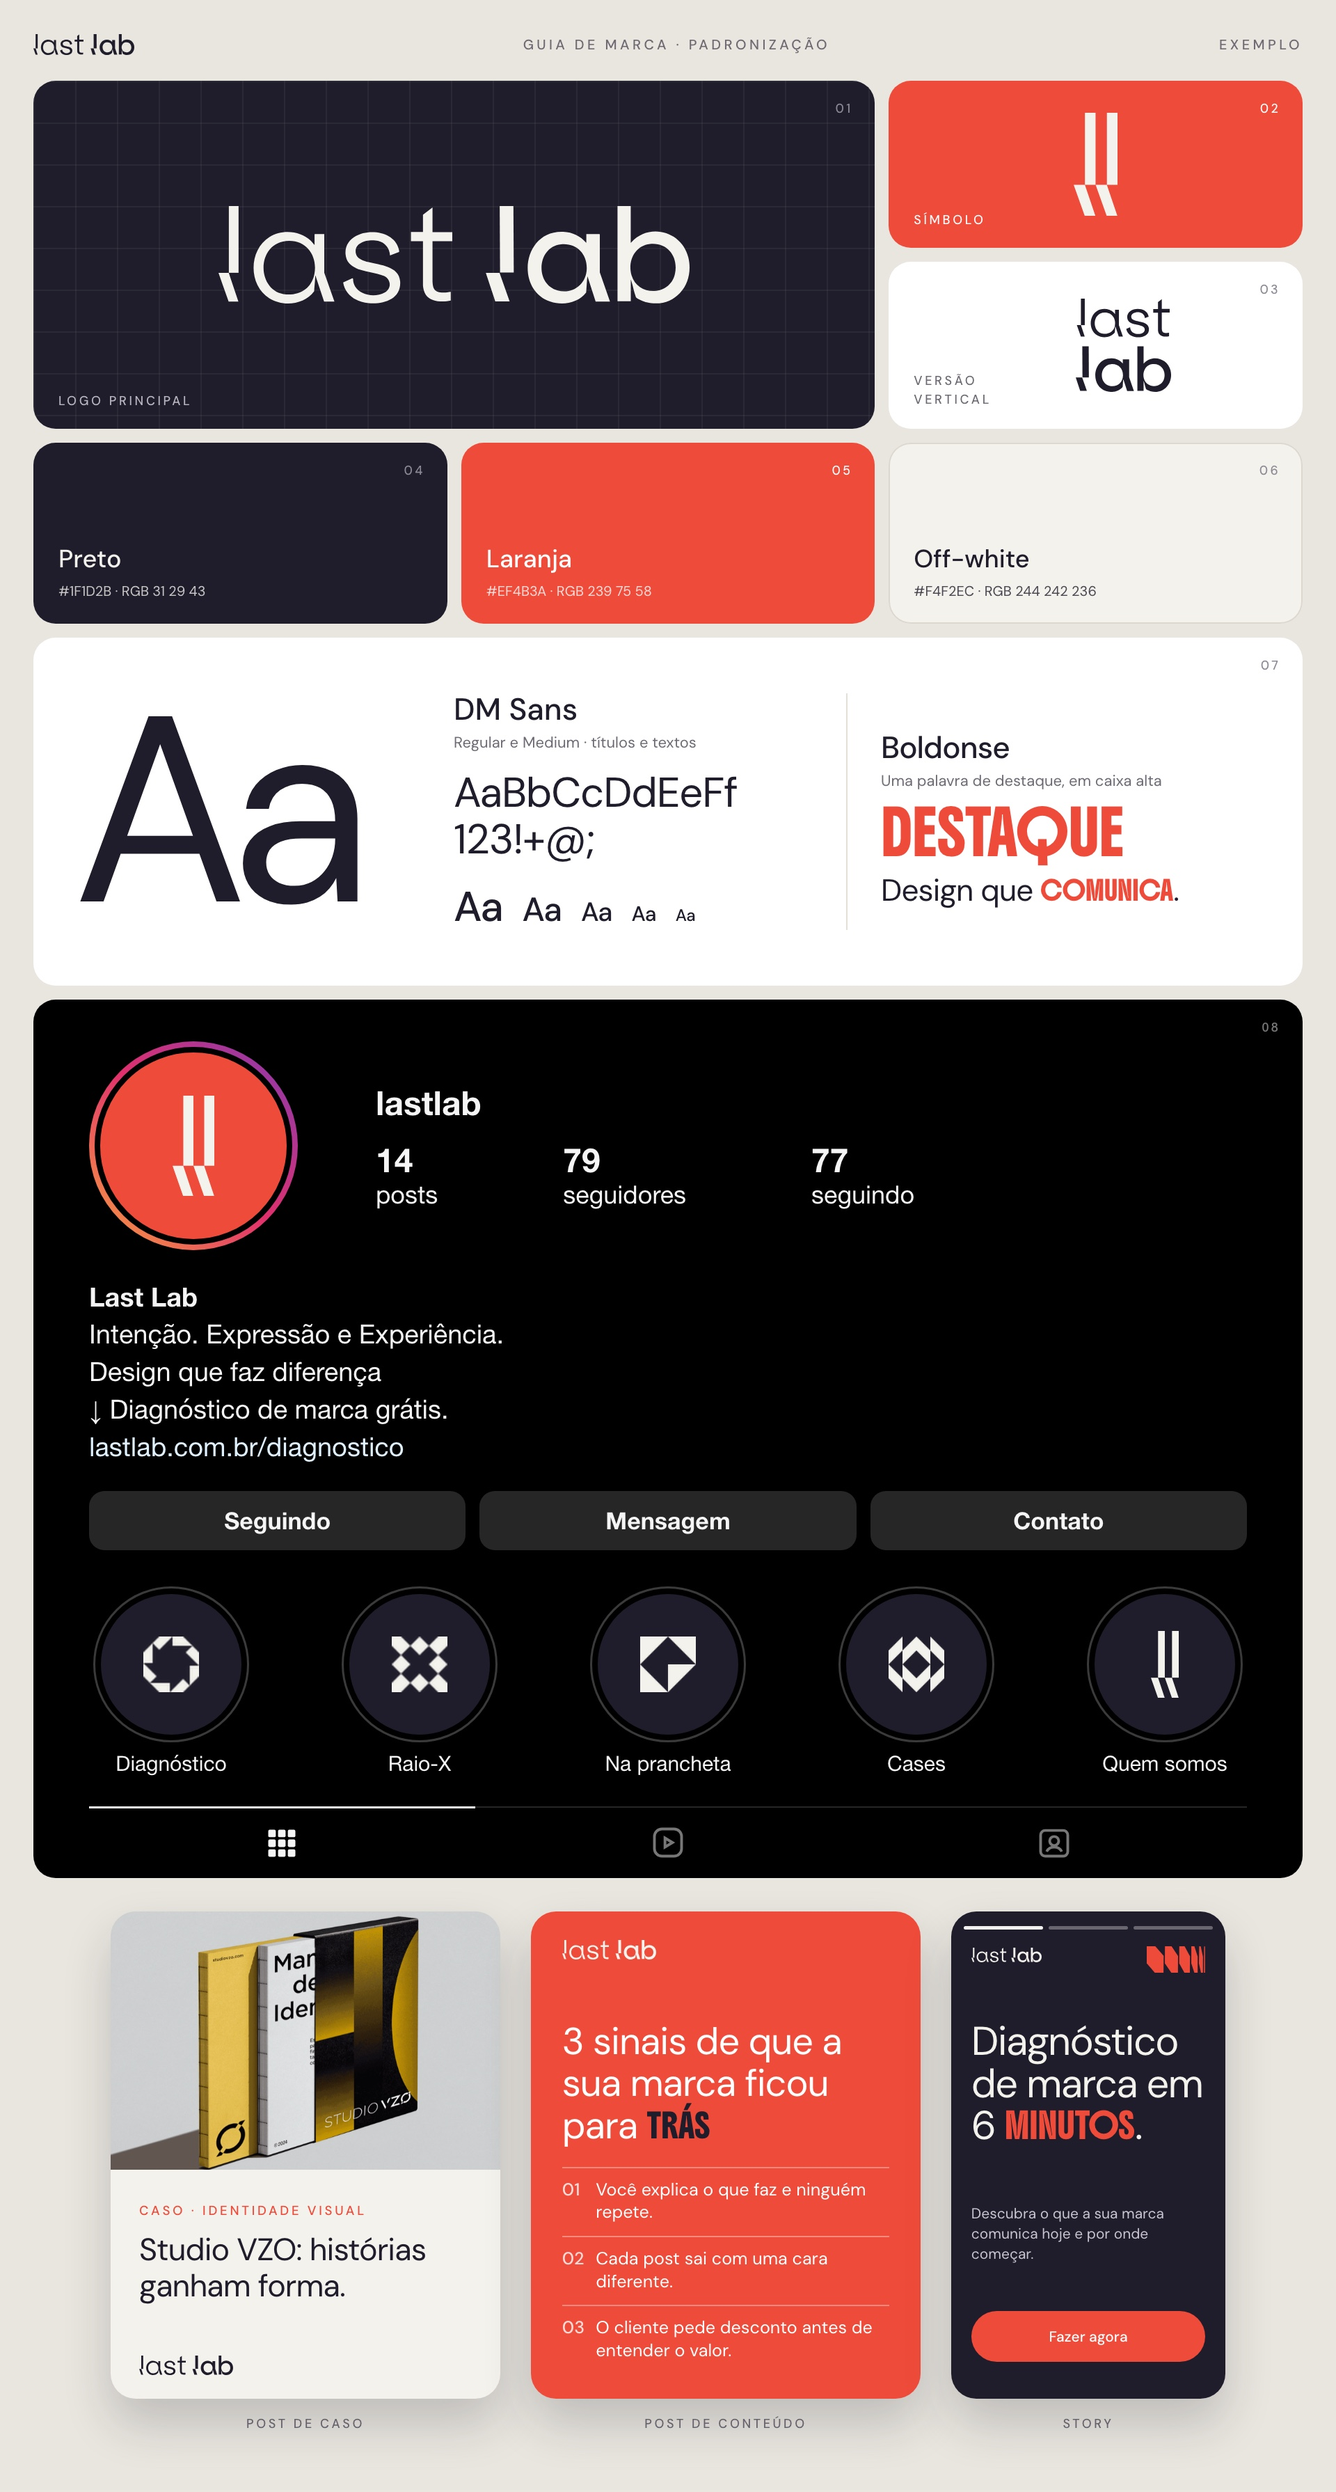
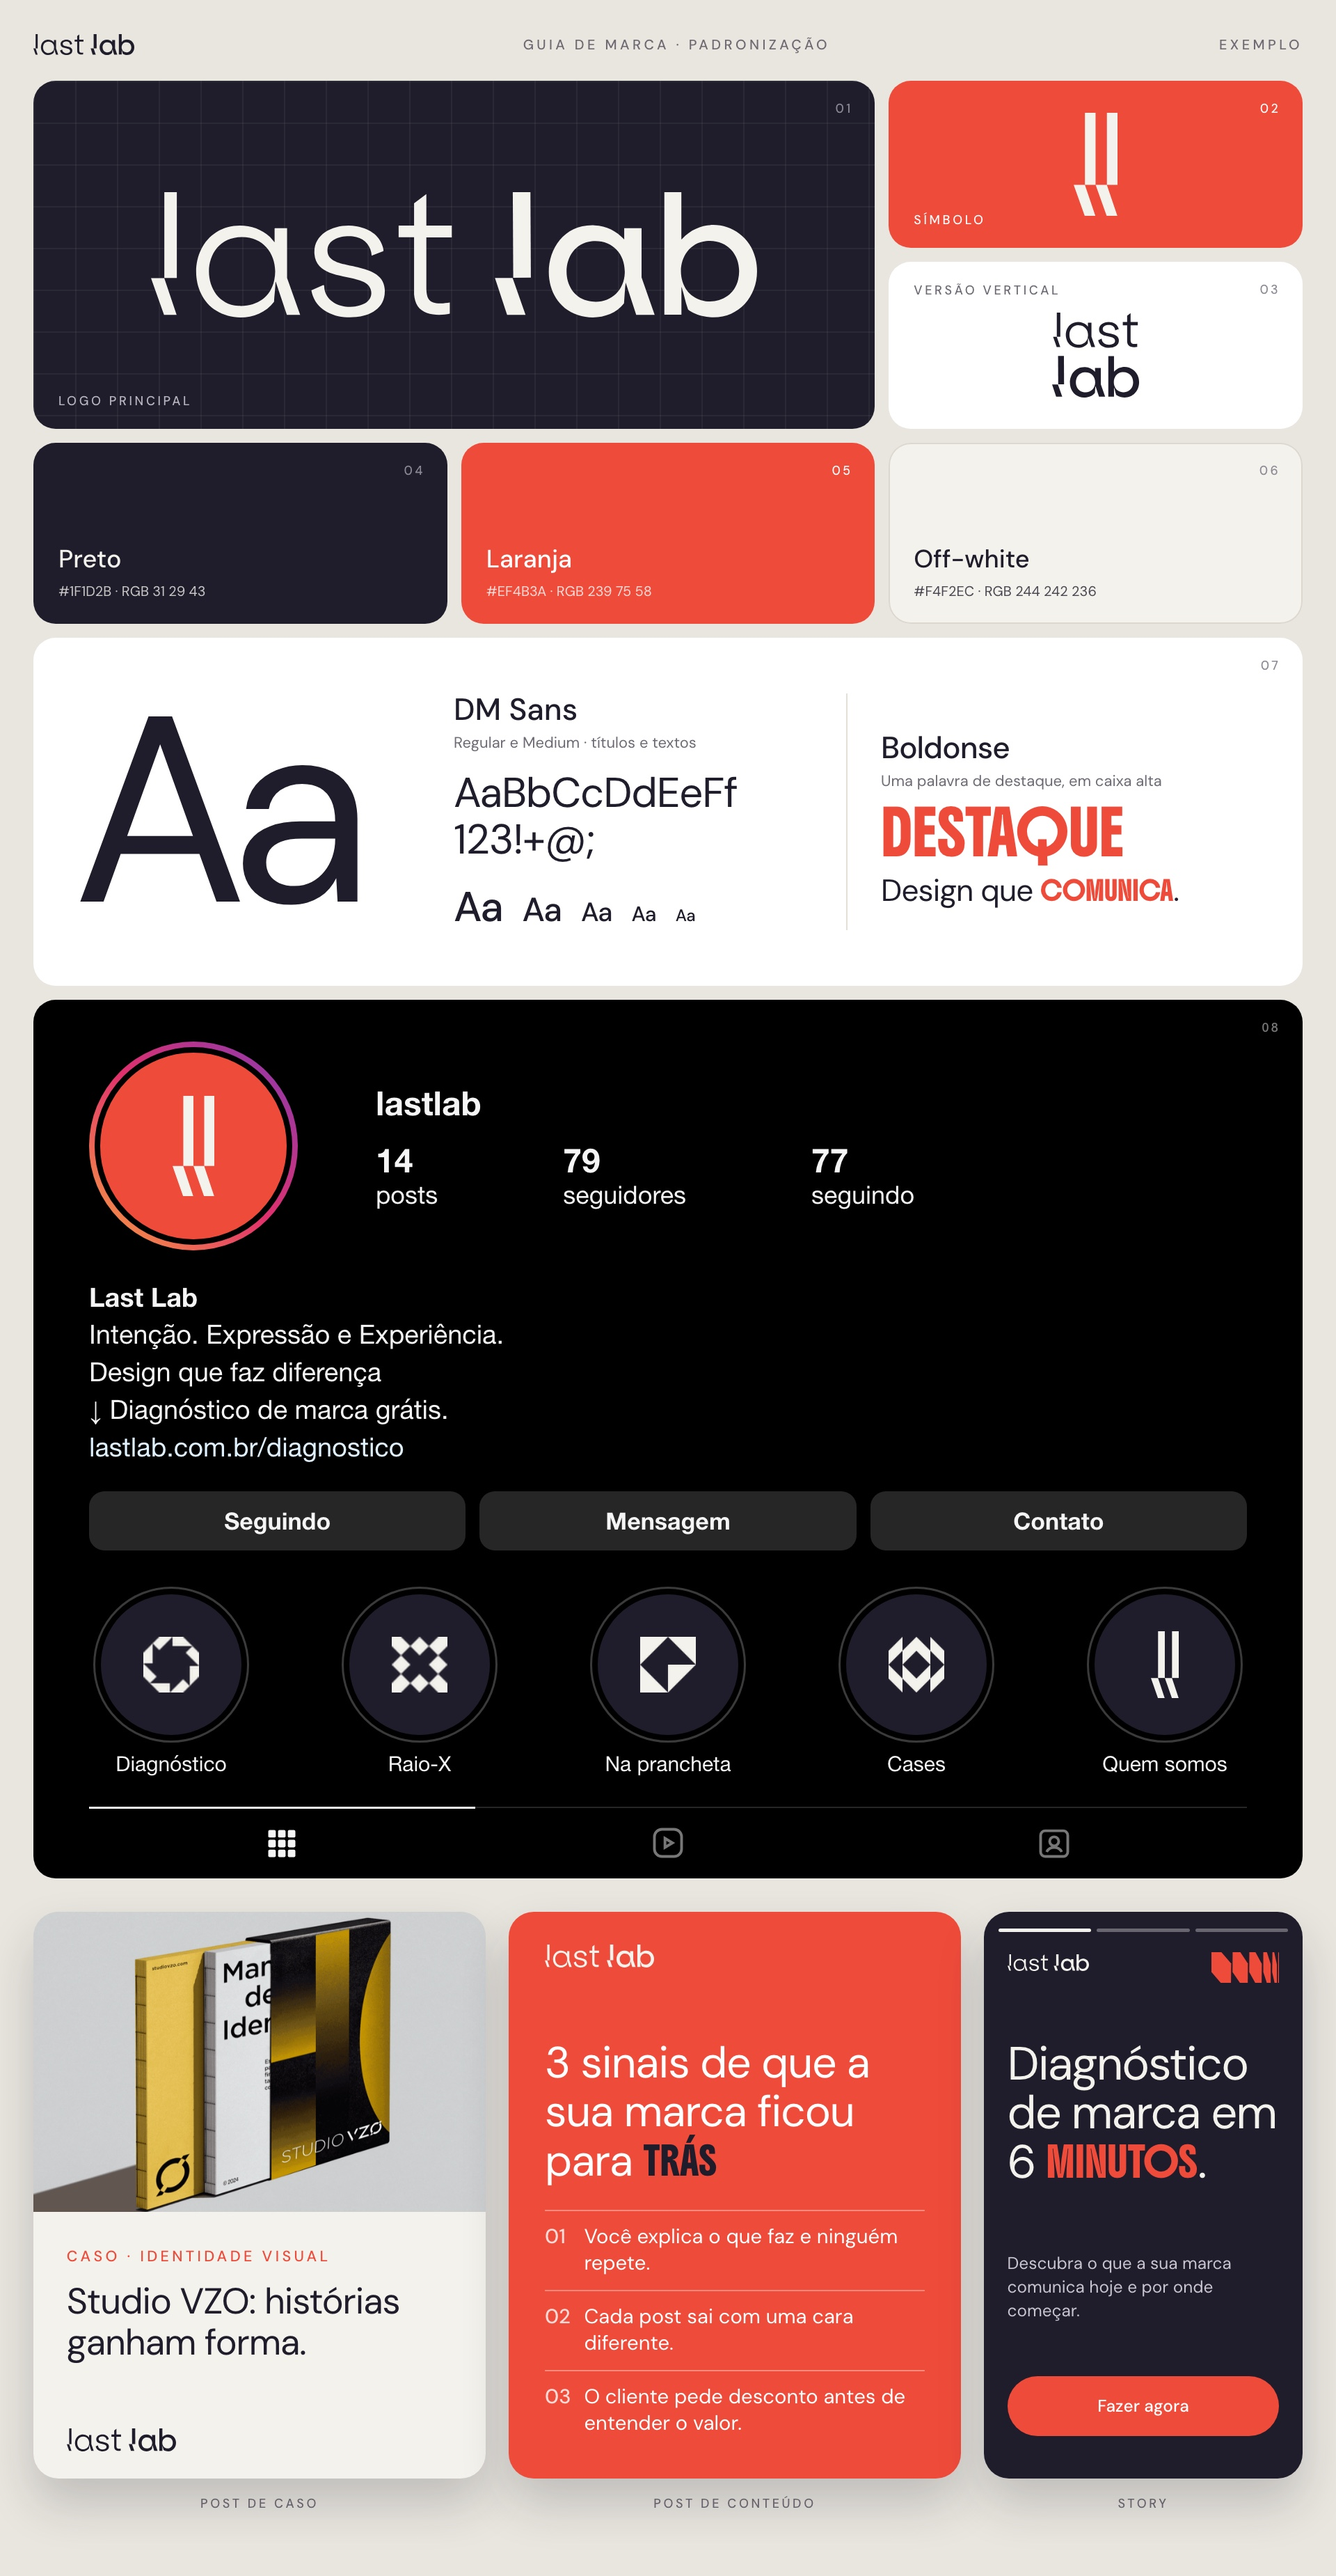
Guia de marca em duas versões: vertical em destaque no O que você recebe, horizontal ocupando o Como fica

diff --git a/src/admin/AdminApresentacao.jsx b/src/admin/AdminApresentacao.jsx
@@ -1239,9 +1239,9 @@ function Entrega({ d, escala }) {
   const onePage = s.vitrineEntrega;
   const comMateriais = !onePage && d.materiais.length > 0;
   return (
-    <Slide escala={escala} d={d} classe={comMateriais ? "vt-slide-entrega" : ""}>
+    <Slide escala={escala} d={d} classe={comMateriais ? "vt-slide-entrega" : onePage ? "sem-rodape" : ""}>
       <Titulo t={tx("entrega", "titulo")} sub={s.promessa} />
-      <div className={`vt-entrega ${comMateriais ? "so-lista" : "mockup"}`}>
+      <div className={`vt-entrega ${comMateriais || onePage ? "so-lista" : "mockup"}`}>
         <div className="esq">
           <ul className={`vt-itens ${s.entregas.length > 4 ? "muitos" : ""}`}>
             {s.entregas.map((x) => (
@@ -1256,11 +1256,10 @@ function Entrega({ d, escala }) {
             <span><svg viewBox="0 0 24 24" aria-hidden="true"><path d="M20 11a8 8 0 1 0-2.3 5.7" /><path d="M20 5v6h-6" /></svg>{s.ajustes} de ajuste</span>
           </div>
         </div>
-        {!comMateriais && (onePage
-          ? <div className="vt-onepage"><img src={onePage} alt="" /><span>Exemplo: o guia de marca da própria Last Lab</span></div>
-          : <PreviaEntrega d={d} />)}
+        {!comMateriais && !onePage && <PreviaEntrega d={d} />}
       </div>
       {comMateriais && <PalcoMateriais materiais={d.materiais} empresa={d.empresa} />}
+      {onePage && <img className="vt-onepage-img" src={onePage} alt="" />}
     </Slide>
   );
 }
@@ -1300,10 +1299,8 @@ function Produto({ d, escala }) {
   // vitrine: um entregável pronto, feito para a própria Last Lab (mostra o nível do que o cliente recebe)
   if (d.oferta.servico.vitrine) {
     return (
-      <Slide livre escala={escala} d={d} classe="rodape-suave">
-        <P x={77} y={44} s={36} peso={300} como="h2" cor="#8a8a8a" w={560}>Como fica</P>
-        <P x={77} y={110} s={26} peso={300} cor="#8a8a8a" w={520} lh={1.45}>{`O guia de marca da própria Last Lab, com os templates e o Instagram. O da ${d.empresa || "sua marca"} segue o mesmo padrão.`}</P>
-        <img src={d.oferta.servico.vitrine} alt="" style={{ position: "absolute", left: 700, top: 40, height: 900, width: "auto", borderRadius: 14, boxShadow: "0 30px 60px rgba(0,0,0,.14)" }} />
+      <Slide livre escala={escala} d={d} classe="sem-rodape">
+        <img src={d.oferta.servico.vitrine} alt="" style={{ position: "absolute", left: 0, top: 0, width: 1920, height: 1080, objectFit: "cover" }} />
       </Slide>
     );
   }

diff --git a/src/admin/apresentacao.css b/src/admin/apresentacao.css
@@ -479,9 +479,9 @@
 /* o que você recebe */
 .vt-entrega { flex: 1; min-height: 0; display: grid; grid-template-columns: 1fr 860px; gap: 72px; margin: -20px -45px -60px -45px; }
 .vt-entrega.mockup { grid-template-columns: 1fr 720px; }
-.vt-onepage { position: relative; display: flex; flex-direction: column; align-items: center; justify-content: flex-start; min-height: 0; }
-.vt-onepage img { height: 640px; margin-top: -40px; width: auto; border-radius: 6px; box-shadow: 0 30px 60px rgba(0, 0, 0, .16), 0 0 0 1px rgba(0, 0, 0, .06); }
-.vt-onepage span { margin-top: 14px; font-size: 20px; color: #8a8a8a; font-weight: 300; }
+/* a one-page de vitrine em destaque, à direita (o que você recebe) */
+.vt-onepage-img { position: absolute; right: 110px; top: 46px; height: 990px; width: auto; border-radius: 12px; box-shadow: 0 40px 80px rgba(0, 0, 0, .2), 0 0 0 1px rgba(0, 0, 0, .05); }
+.apr-slide.sem-rodape .apr-rodape { display: none; }
 .vt-entrega .esq { display: flex; flex-direction: column; justify-content: space-between; padding: 4px 0 8px; }
 .vt-itens { list-style: none; padding: 0; display: flex; flex-direction: column; gap: 26px; }
 .vt-itens li { display: grid; grid-template-columns: 46px 1fr; gap: 22px; align-items: start; font-size: 32px; line-height: 1.3; }

diff --git a/src/admin/catalogoOfertas.js b/src/admin/catalogoOfertas.js
@@ -9,7 +9,7 @@ export const SERVICOS = {
   padronizacao: {
     etapas: [{"nome": "Briefing", "texto": "1 hora de conversa e acesso ao que você usa hoje", "dias": 1, "cliente": "Participar da conversa de briefing", "aprovacao": false}, {"nome": "Logo e cores", "texto": "Logo ajustado, cores e fontes para aprovar", "dias": 4, "cliente": "Aprovar logo, cores e fontes", "aprovacao": true}, {"nome": "Templates e perfil", "texto": "3 templates no Canva, bio e destaques", "dias": 4, "cliente": "", "aprovacao": false}, {"nome": "Entrega", "texto": "Arquivos, Canva e 1 rodada de ajuste", "dias": 1, "cliente": "", "aprovacao": false}],
     exemplo: "redes",
-    vitrine: "/images/entregaveis/guia-padronizacao.jpg",
+    vitrine: "/images/entregaveis/guia-padronizacao-h.jpg",
     vitrineEntrega: "/images/entregaveis/guia-padronizacao.jpg",
     depois: ["Uma marca só, do Instagram ao orçamento", "Posts no padrão, feitos por você em minutos", "Quem chega entende de cara o que vocês fazem"],
     nome: "Padronização da marca",
